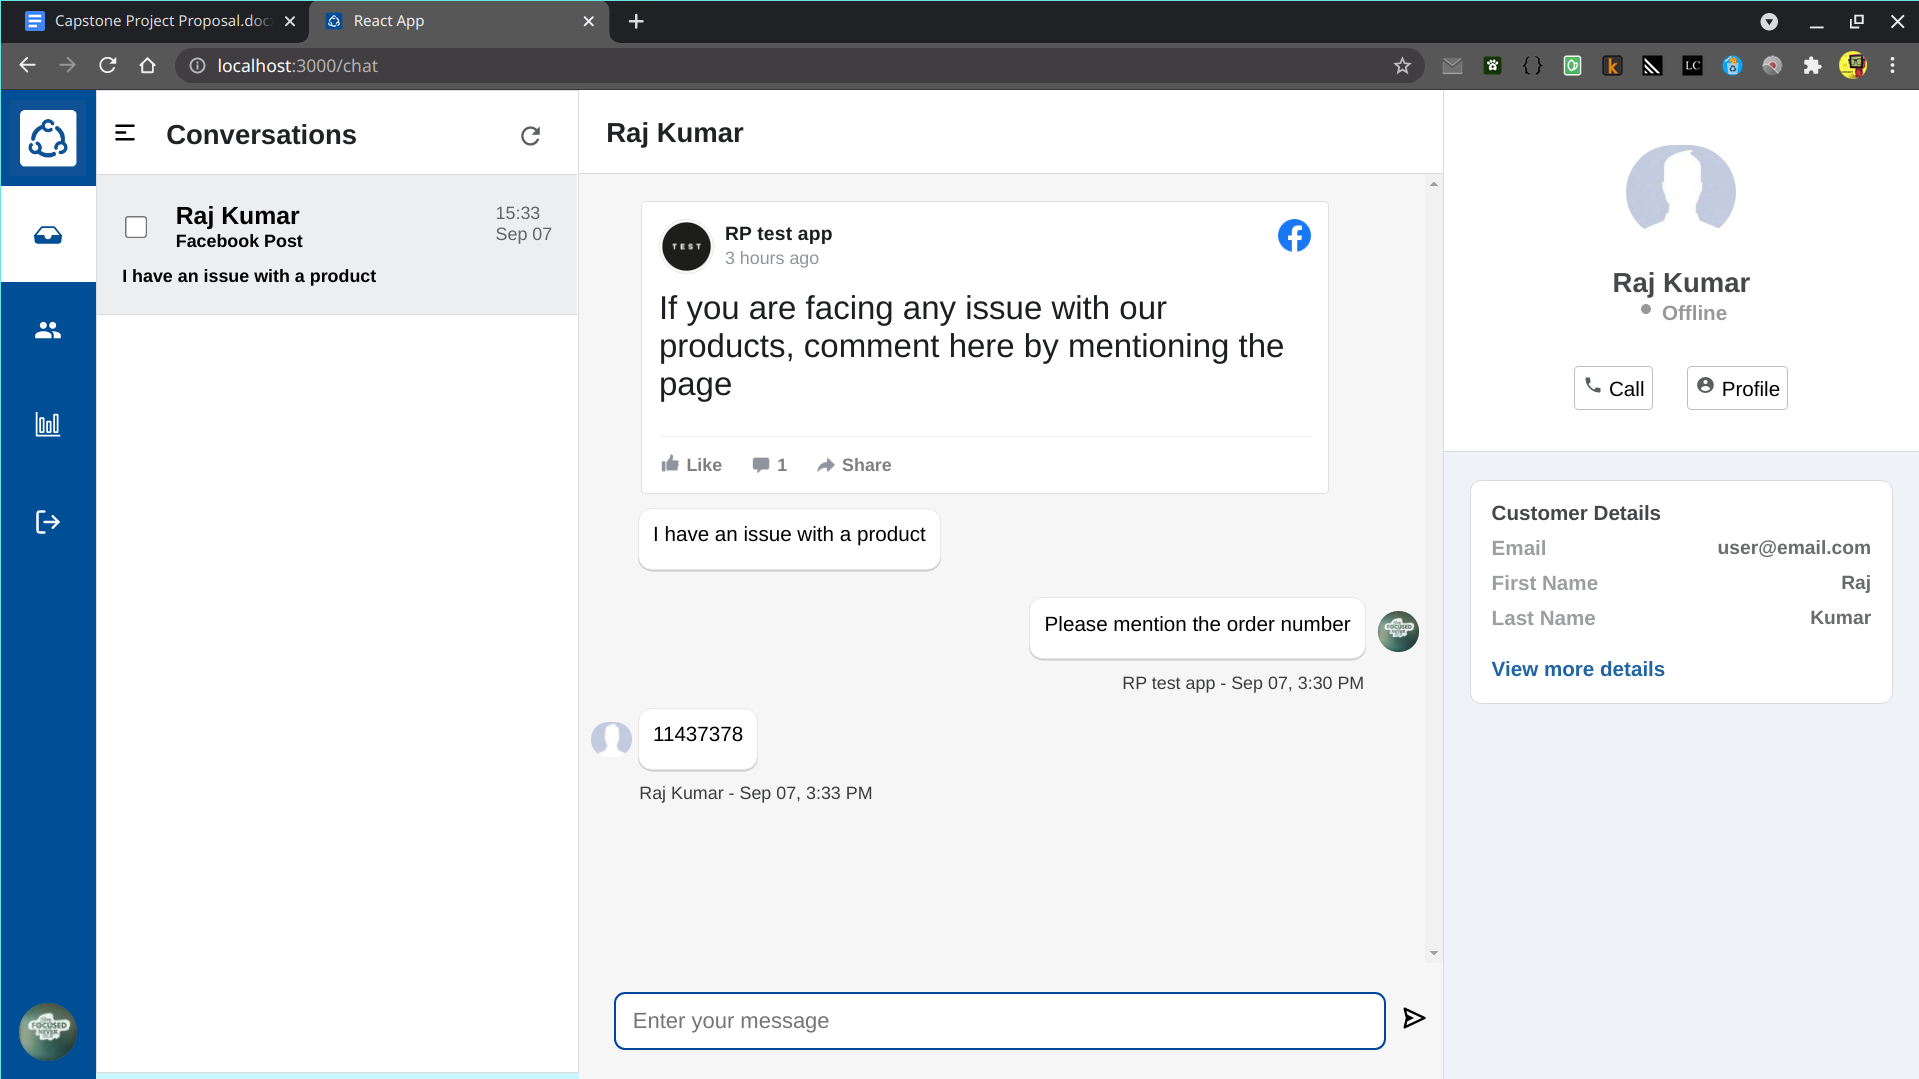
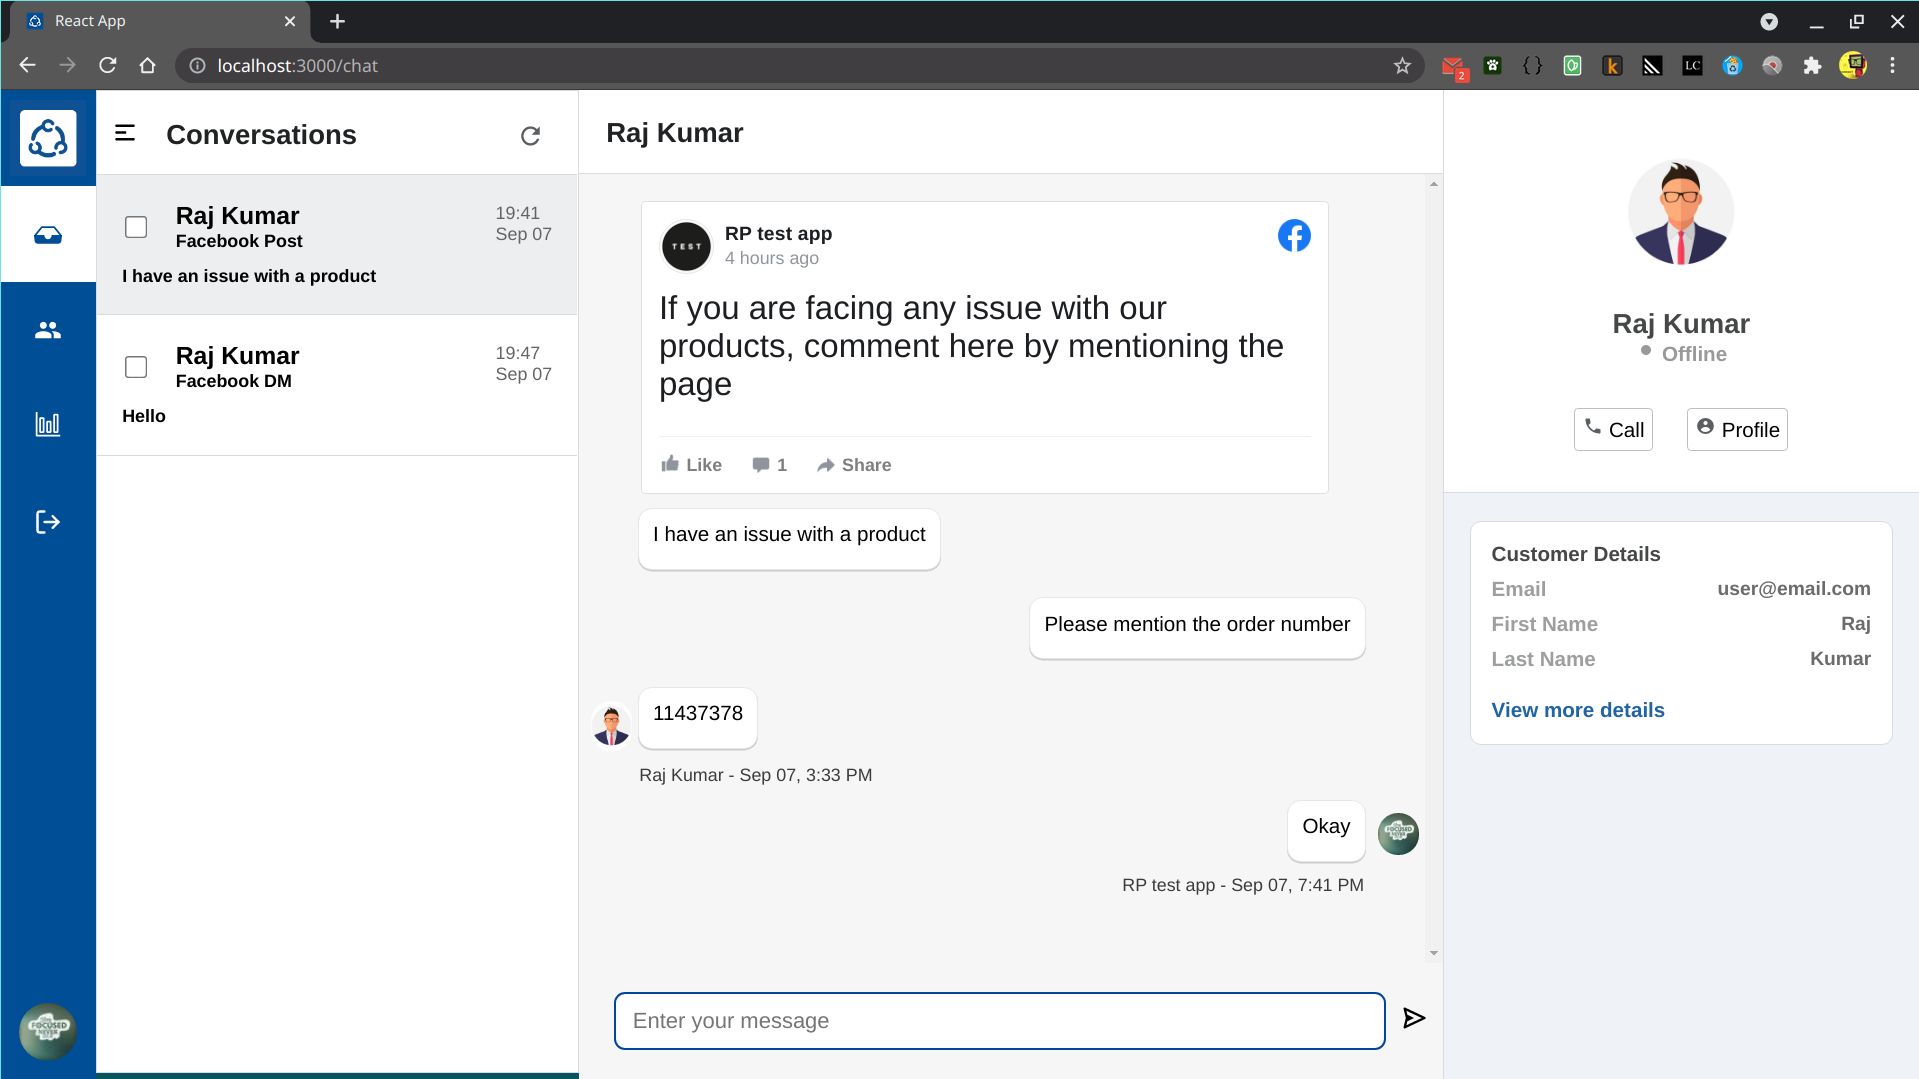
Edited files

diff --git a/src/ChatPage.js b/src/ChatPage.js
@@ -71,7 +71,7 @@ class ChatPage extends React.Component {
     }
     handleOldMessages = (msg) => {
         console.log('got old messages')
-        this.DMMessages = msg;
+        this.DMMessages = msg || {};  // if no messages in database, use empty object
         this.refreshComments()  // refresh when page just loaded
     }
     handleNewMessage = async (userID, msgText, sendTime) => {
@@ -86,7 +86,6 @@ class ChatPage extends React.Component {
         else    {  // if user never sent message earlier
             var res = await loadPath(userID, this.pageToken)  // get user details
             res = res.data
-            conversations[userID] = {}  // create object for user
             conversations[userID] = {
                 userReply: sendTime,
                 pageReply: '',
@@ -106,7 +105,6 @@ class ChatPage extends React.Component {
         })
         conversations[userID].userReply = sendTime  // update last reply time
         conversations[userID].lastReply = sendTime
-        // console.log(this.DMMessages)
         this.DMMessages[userID] = conversations[userID]  // add to this.DMMessages
         this.socket.emit('updateMessages', this.DMMessages, this.pageID)
         this.sleep(1000)
@@ -116,7 +114,7 @@ class ChatPage extends React.Component {
         if (this.interval)
             clearInterval(this.interval)
     }
-    addMessagesByIndex = (index) => {
+    addMessagesByIndex = async (index) => {
         var messages = []
         var conversations = this.state.conversations
         if (index != -1)  {
@@ -124,6 +122,11 @@ class ChatPage extends React.Component {
             var conversation = conversations[key]
             this.currConv = conversation
             var messages = conversation.messages
+
+            if (conversation.userID) {  // if there is userID, use it to get profile pic
+                var res = await loadPath(conversation.userID, this.pageToken)
+                conversation.userProfilePic = res.data.profile_pic
+            }
 
             // console.log(conversation)
             document.getElementsByClassName('largetext')[1].innerText = conversation.fullName
@@ -162,15 +165,16 @@ class ChatPage extends React.Component {
                         var firstName = fullName[0]
                         var lastName = fullName[fullName.length - 1]
                         fullName = comment.from.name
+                        var userID = comment.from.id
                     }
                     else    {  // if unable to get the name
                         var fullName = 'Unknown User'
                         var firstName = 'Unknown'
                         var lastName = 'User'
+                        var userID = null
                     }
                     // remove pageName from mentioned comment
                     comment.message = comment.message.replace(pageName, '', 1).trim()
-                    conversations[comment.id] = {}  // creating value in object
                     conversations[comment.id] = {
                         userReply: comment.created_time,  // time of last reply
                         pageReply: '',
@@ -178,6 +182,7 @@ class ChatPage extends React.Component {
                         firstName: firstName,
                         lastName: lastName,
                         fullName: fullName,
+                        userID: userID,
                         userEmail: 'user@email.com',
                         userProfilePic: '/nopic.png',
                         msgSource: 'Facebook Post',
@@ -282,7 +287,7 @@ class ChatPage extends React.Component {
         postID = postID[1]
         var url = `https://www.facebook.com/plugins/post.php?href=https%3A%2F%2Fwww.facebook.com%2Fpermalink.php%3Fstory_fbid%3D${currPageID}%26id%3D${postID}&show_text=true&width=500`
         return (
-            <iframe src={url} width="500" height="213" scrolling="no" frameBorder="0"
+            <iframe key={postID} src={url} width="500" height="213" scrolling="no" frameBorder="0"
                 allow="encrypted-media; picture-in-picture; web-share" 
             />
         )  // on a post, click 'embed code' button to get code

diff --git a/src/modules/functions.js b/src/modules/functions.js
@@ -38,23 +38,22 @@ export class Conversation extends React.Component {
 }
 
 export class Message extends React.Component {
+    convertTime = (timestamp) => {
+        timestamp = new Date(timestamp)
+        const monthNames = ["Jan", "Feb", "Mar", "Apr", "May", "Jun",
+            "Jul", "Aug", "Sep", "Oct", "Nov", "Dec"
+        ]
+        var result = monthNames[timestamp.getMonth()] + ' '
+        var date = timestamp.getDate()
+        if (date < 10)
+            date = '0' + date
+        else
+            date = '' + date
+        result += date + ', '
+        result += timestamp.toLocaleString('en-US', { hour: 'numeric', minute: 'numeric', hour12: true })
+        return result
+    }
     render() {
-        const convertTime = (timestamp) => {
-            timestamp = new Date(timestamp)
-            const monthNames = ["Jan", "Feb", "Mar", "Apr", "May", "Jun",
-                "Jul", "Aug", "Sep", "Oct", "Nov", "Dec"
-            ]
-            var result = monthNames[timestamp.getMonth()] + ' '
-            var date = timestamp.getDate()
-            if (date < 10)
-                date = '0' + date
-            else
-                date = '' + date
-            result += date + ', '
-            result += timestamp.toLocaleString('en-US', { hour: 'numeric', minute: 'numeric', hour12: true })
-            return result
-        }
-
         var userLast = 0, pageLast = 0
         this.props.messages.map((item, index) => {
             if (item.from == 'page')
@@ -65,12 +64,12 @@ export class Message extends React.Component {
 
         if (this.props.from == 'page'){
             // to display time and name below last message
-            var displayText = this.props.pageName + ' - ' + convertTime(this.props.pageReply)
+            var displayText = this.props.pageName + ' - ' + this.convertTime(this.props.pageReply)
             var msgSide = 'msgRight'  // if message is from page, place it on right  
             var isLast = (this.props.index == pageLast)
             var profilePic = this.props.pageProfilePic
         } else {
-            var displayText = this.props.fullName + ' - '  + convertTime(this.props.userReply)
+            var displayText = this.props.fullName + ' - '  + this.convertTime(this.props.userReply)
             var msgSide = 'msgLeft'  // if message is from user, place it on left
             var isLast = (this.props.index == userLast)
             var profilePic = this.props.userProfilePic
